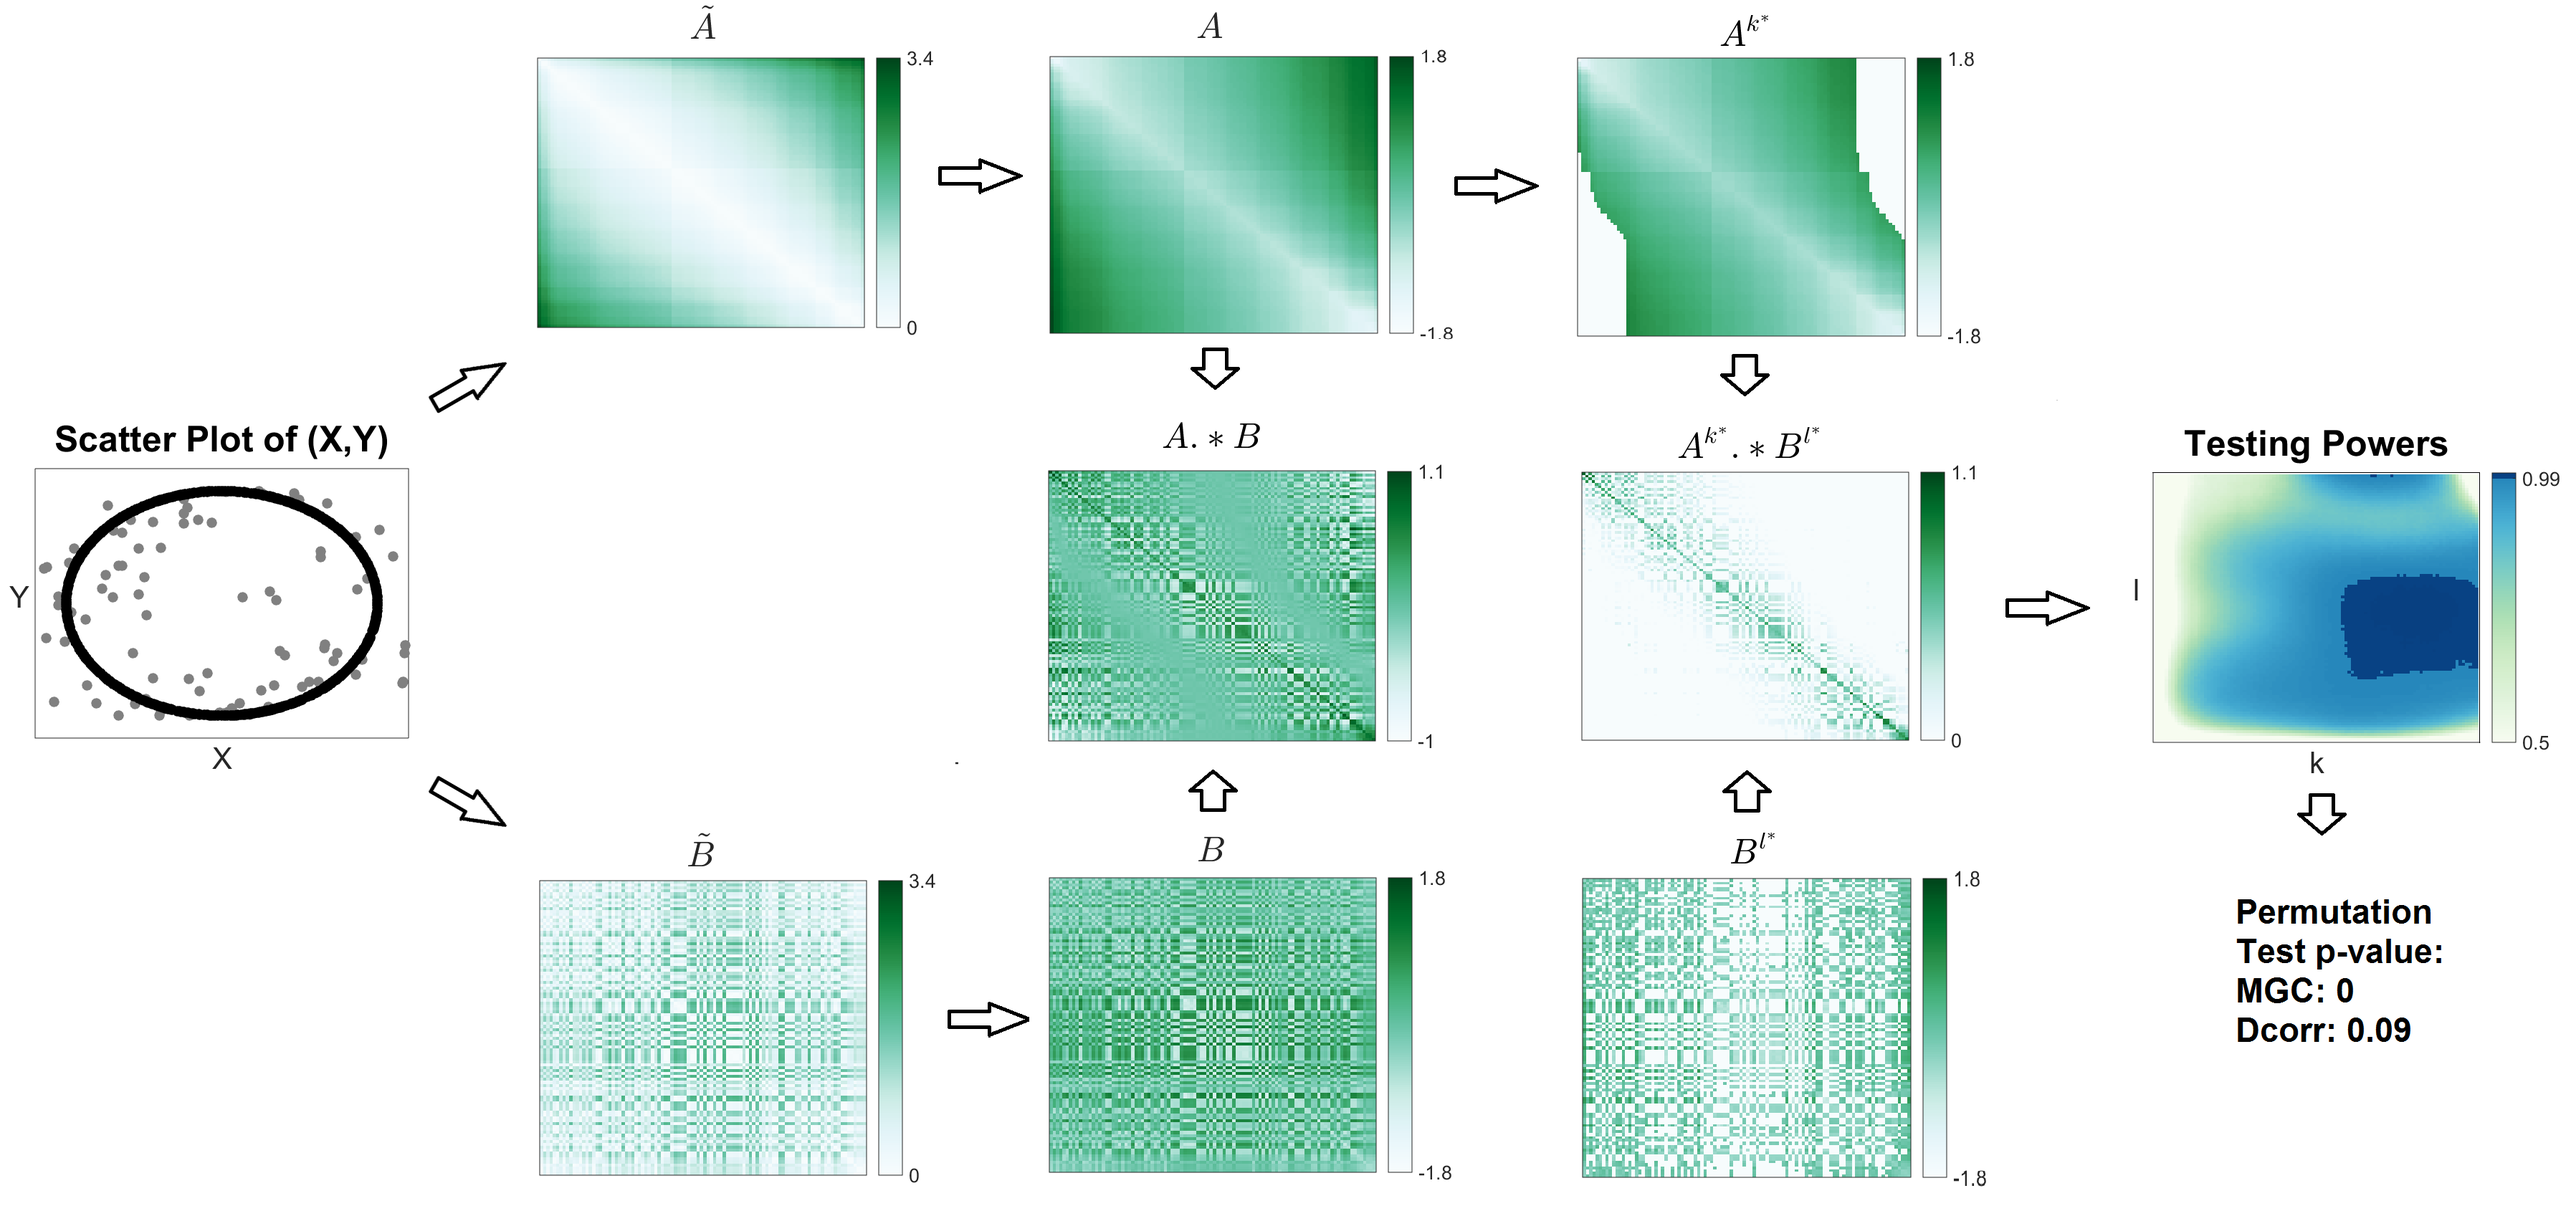
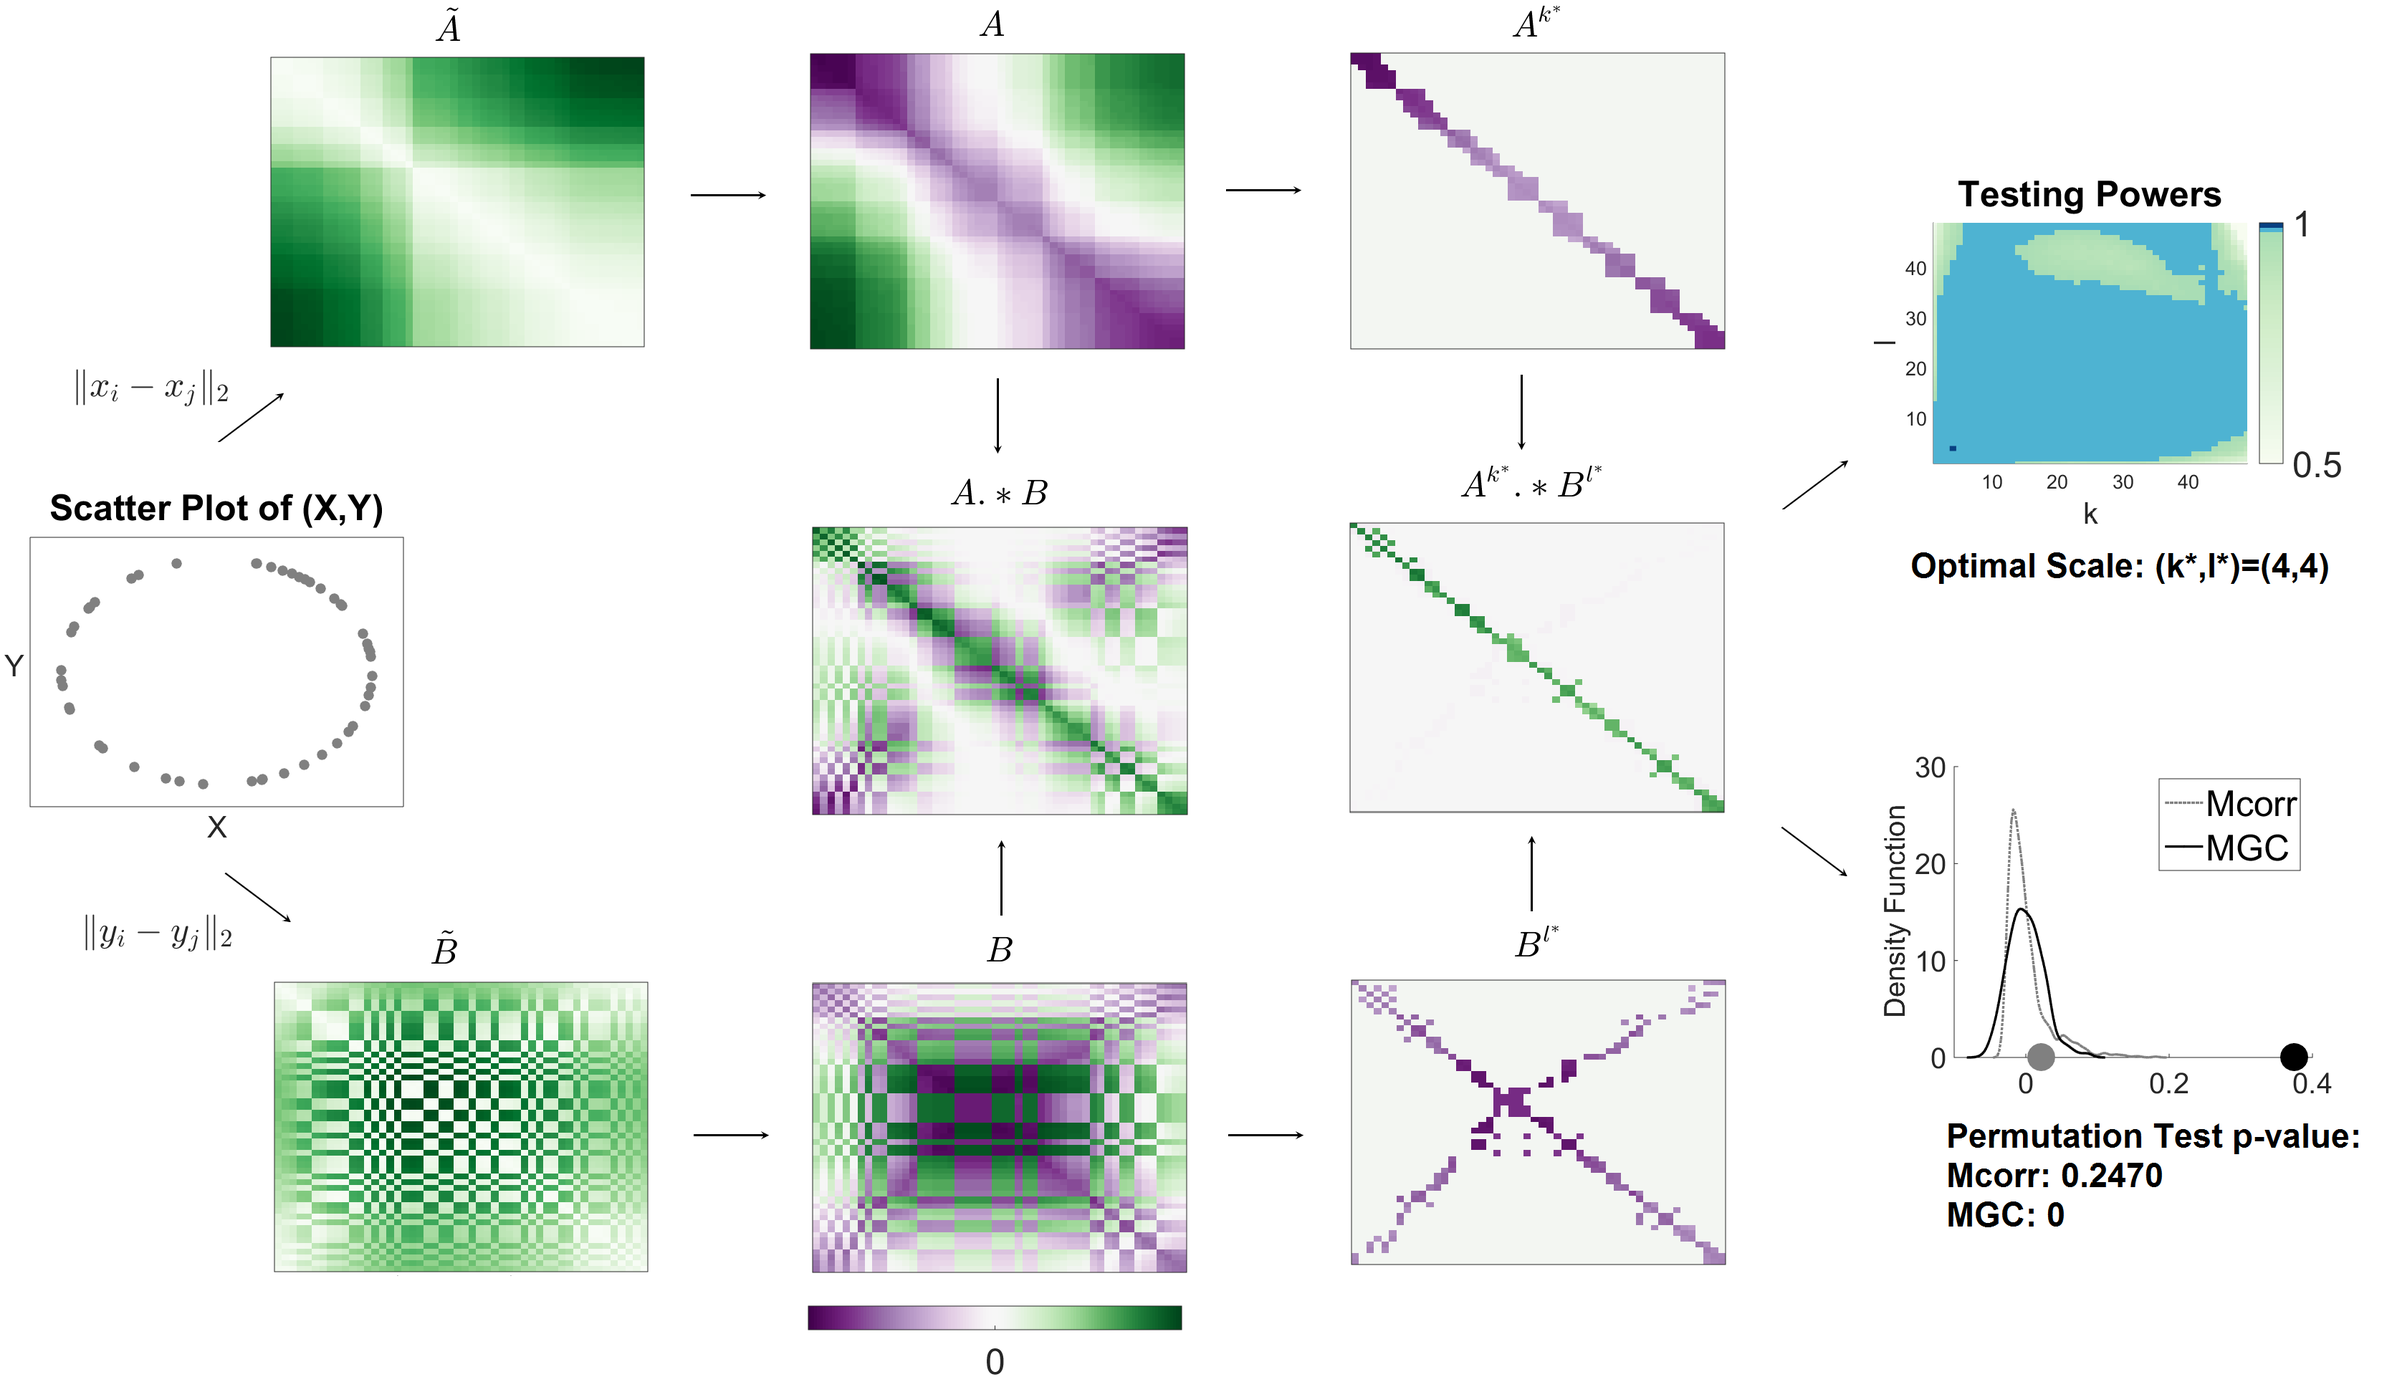
figure 1 update in tex

diff --git a/Code/Plots/plot_auxiliary.m b/Code/Plots/plot_auxiliary.m
@@ -19,8 +19,9 @@ dim=1;
 noise=0;
 cc=1;
 samebar=1;
-colorb=1;
+colorb=0;
 rep=1000;
+repp=1;
 
 cmap=zeros(3,3);
 gr = [0.5,0.5,0.5];
@@ -37,14 +38,14 @@ set(groot,'defaultAxesColorOrder',map1);
 % Generate data
 [x, y]=CorrSampleGenerator(type,n,dim,1, noise);
 if noise~=0
-[x1, y1]=CorrSampleGenerator(type,10*n,dim,1, 0); % Plot 10*n points without noise to highlight the underlying dependency
+    [x1, y1]=CorrSampleGenerator(type,10*n,dim,1, 0); % Plot 10*n points without noise to highlight the underlying dependency
 end
 % A1: scatter plot
 figure
 if noise==0
-plot(x,y,'.','MarkerSize',30);
+    plot(x,y,'.','MarkerSize',30);
 else
-plot(x,y,'.',x1,y1,'k.','MarkerSize',30);
+    plot(x,y,'.',x1,y1,'k.','MarkerSize',30);
 end
 xlabel('X','FontSize',25)
 ylabel('Y','FontSize',25,'Rotation',0,'position',[-1.3,-0.1]);
@@ -65,28 +66,28 @@ D=squareform(pdist(y));
 tA=zeros(n,n,rep);
 tN=zeros(n,n,rep);
 pa=zeros(n,n);
-for rr=1:10
-for r=1:rep;
-    [x, y]=CorrSampleGenerator(type,n,dim,1, noise);
-    CA=squareform(pdist(x));
-    DA=squareform(pdist(y));
-    tA(:,:,r)=LocalCorr(CA,DA,2);
-    [x, y]=CorrSampleGenerator(type,n,dim,0, noise);
-    CA=squareform(pdist(x));
-    DA=squareform(pdist(y));
-    tN(:,:,r)=LocalCorr(CA,DA,2);
-end
-
-power1=zeros(n,n);
-alpha=0.05;
-for i=1:n;
-    for j=1:n;
-        dCorT=sort(tN(i,j,:),'descend');
-        cut1=dCorT(ceil(rep*alpha));
-        power1(i,j)=mean(tA(i,j,:)>cut1);
+for rr=1:repp
+    for r=1:rep;
+        [x, y]=CorrSampleGenerator(type,n,dim,1, noise);
+        CA=squareform(pdist(x));
+        DA=squareform(pdist(y));
+        tA(:,:,r)=LocalCorr(CA,DA,2);
+        [x, y]=CorrSampleGenerator(type,n,dim,0, noise);
+        CA=squareform(pdist(x));
+        DA=squareform(pdist(y));
+        tN(:,:,r)=LocalCorr(CA,DA,2);
     end
-end
-pa=pa+power1/10;
+    
+    power1=zeros(n,n);
+    alpha=0.05;
+    for i=1:n;
+        for j=1:n;
+            dCorT=sort(tN(i,j,:),'descend');
+            cut1=dCorT(ceil(rep*alpha));
+            power1(i,j)=mean(tA(i,j,:)>cut1);
+        end
+    end
+    pa=pa+power1/repp;
 end
 power1=pa;
 % figure
@@ -131,7 +132,7 @@ plot(xi,f,'.:',xi1,f1,'k.-','LineWidth',2);
 set(gca,'FontSize',24);
 h=legend('Mcorr','MGC','Location','NorthEast');
 set(h,'FontSize',30);
-plot(tA(end),0.01,'.',tA(k,l),0.01,'k.','MarkerSize',30);
+plot(tA(end),0.01,'.',tA(k,l),0.01,'k.','MarkerSize',80);
 xlim([minp,maxp]);
 ylabel('Density Function','FontSize',24);
 %ylim([-1 15]);
@@ -173,11 +174,11 @@ if colorb~=0
     h=colorbar('Ticks',[-1000,0,maxC]);
     set(h,'FontSize',16);
 end
-title('Pairwise Distances','FontSize',30)
+%xlabel('$$\tilde{A}_{ij}=|x_{i}-x_{j}|_{2}$$','FontSize',30,'interpreter','latex','position',[0,-1])
 set(gca,'XTick',[]); % Remove x axis ticks
 set(gca,'YTick',[]); % Remove y axis ticks
-%xlabel('\tilde{A}_{ij}=\|x_{i}-x_{j}\|_{2}','FontSize',25);
-ylabel('$$\tilde{A}$$','FontSize',30,'Rotation',0,'position',[-5,50],'interpreter','latex');
+xlabel('$\|x_{i}-x_{j}\|_{2}$','FontSize',30,'interpreter','latex')
+title('$\tilde{A}$','FontSize',30,'Rotation',0,'position',[-5,50],'interpreter','latex');
 
 %subplot(s,t,6)
 figure
@@ -196,7 +197,8 @@ caxis([0,maxC]);
 set(gca,'XTick',[]); % Remove x axis ticks
 set(gca,'YTick',[]); % Remove y axis ticks
 %xlabel('\tilde{B}_{ij}=\|y_{i}-y_{j}\|_{2}','FontSize',25);
-ylabel('$$\tilde{B}$$','FontSize',30,'Rotation',0,'position',[-5,50],'interpreter','latex');
+xlabel('$\|y_{i}-y_{j}\|_{2}$','FontSize',30,'interpreter','latex')
+title('$\tilde{B}$','FontSize',30,'Rotation',0,'position',[-5,50],'interpreter','latex');
 
 % A3: heatmaps of the doubly centered distance matrices
 for option=1:1
@@ -237,6 +239,7 @@ for option=1:1
     else
         minC=floor(min(min([A]))*10)/10;maxC=ceil(max(max([A]))*10)/10;
     end
+    minC=min(minC,-maxC);maxC=max(maxC,-minC);
     figure
     imagesc(A');
     colormap(map2)
@@ -249,7 +252,7 @@ for option=1:1
     set(gca,'XTick',[]); % Remove x axis ticks
     set(gca,'YTick',[]); % Remove y axis ticks
     %xlabel('A=H\tilde{A}H','FontSize',25);
-    ylabel('$$A$$','FontSize',30,'Rotation',0,'position',[-5,50],'interpreter','latex');
+    title('$$A$$','FontSize',30,'interpreter','latex');
     
     figure
     if samebar==1
@@ -257,6 +260,7 @@ for option=1:1
     else
         minD=floor(min(min([B]))*10)/10;maxD=ceil(max(max([B]))*10)/10;
     end
+    minD=min(minD,-maxD);maxD=max(maxD,-minD);
     imagesc(B');
     set(gca,'FontSize',16)
     colormap(map2)
@@ -265,11 +269,13 @@ for option=1:1
         h=colorbar('Ticks',[-1000,minD,maxD]);
         set(h,'FontSize',16);
     end
+    h=colorbar('Ticks',[0],'location','southoutside');
+    set(h,'FontSize',30);
     %title('Doubly-Centered Distance Heatmap of Y','FontSize',16)
     set(gca,'XTick',[]); % Remove x axis ticks
     set(gca,'YTick',[]); % Remove y axis ticks
     %xlabel('B=H\tilde{B}H','FontSize',25);
-    ylabel('$$B$$','FontSize',30,'Rotation',0,'position',[-5,50],'interpreter','latex');
+    title('$$B$$','FontSize',30,'interpreter','latex');
     
     % Local distance matrices
     %if n~=100 || noise~=1
@@ -319,15 +325,16 @@ for option=1:1
     % A4: heatmaps of the distance covariance entries
     figure
     MH=ceil(max(max(mcorrH(2:end,2:end)))*10)/10;
-    mMH=floor(min(min(mcorrH(2:end,2:end)))*10)/10;
+    mH=floor(min(min(mcorrH(2:end,2:end)))*10)/10;
+    mH=min(mH,-MH);MH=max(MH,-mH);
     imagesc(mcorrH');
     set(gca,'FontSize',16)
     colormap(map2)
     if colorb~=0
-        h=colorbar('Ticks',[-1000,mMH,MH]);
+        h=colorbar('Ticks',[-1000,mH,MH]);
         set(h,'FontSize',16);
     end
-    caxis([mMH,MH]);
+    caxis([mH,MH]);
     %ylabel('$$A^{k^{*}}.*B^{l^{*}}$$','FontSize',25,'Rotation',0,'position',[-5,50],'interpreter','latex');
     set(gca,'XTick',[]); % Remove x axis ticks
     set(gca,'YTick',[]); % Remove y axis ticks
@@ -347,12 +354,12 @@ for option=1:1
     set(gca,'FontSize',16)
     colormap(map2)
     if colorb~=0
-        h=colorbar('Ticks',[-1000,mMH,MH]);
+        h=colorbar('Ticks',[-1000,mH,MH]);
         set(h,'FontSize',16);
     end
-    caxis([mMH,MH]);
-     if colorb~=0
-        h=colorbar('Ticks',[-1000,mMH,MH]);
+    caxis([mH,MH]);
+    if colorb~=0
+        h=colorbar('Ticks',[-1000,mH,MH]);
         set(h,'FontSize',16);
     end
     %ylabel('$$A^{k^{*}}.*B^{l^{*}}$$','FontSize',25,'Rotation',0,'position',[-5,50],'interpreter','latex');
@@ -385,8 +392,8 @@ for option=1:1
     ylabel('l','FontSize',25)%,'Rotation',0,'position',[-5,50]);
     xlim([1 n-1]);
     ylim([1 n-1]);
-    h=colorbar('Ticks',[-1000,0.5,0.98]);
-    set(h,'FontSize',16);
+    h=colorbar('Ticks',[-1000,0.5,1]);
+    set(h,'FontSize',30);
     
     imagesc(k,l,1);
     

diff --git a/Draft/LDC.tex b/Draft/LDC.tex
@@ -283,7 +283,12 @@ Among all $n^2$ local statistics, $\{\G_{kl}\}$, \Mgc~selects the best local sta
 % \includegraphics[width=1.0\textwidth]{Figures/FigB}
 % \includegraphics[width=1.0\textwidth]{Figures/FigC}
 \caption{
-Flowchart for local correlation computation: Column 1: $(X,Y)$ have a quadratic relationship with white noise. Column 2: The heat maps of $\tilde{A}$ and $\tilde{B}$, which are the pairwise Euclidean distance matrices of $X$ and $Y$. Column 3: The heat maps of $A=\{a_{ij}\}$ and $B=\{b_{ij}\}$, which are the normalized (i.e. doubly centered) distance matrices of $\tilde{A}$ and $\tilde{B}$. Column 4: The heat maps of local $A$ and $B$, i.e., $A^{k^{*}}=\{a^{k^{*}}_{ij}\}$ and $B^{l^{*}}=\{b^{l^{*}}_{ij}\}$, where $(k^{*},l^{*})$ is the optimal scale for the quadratic relationship. Column 5: The heat map of the entry-wise product of local $A$ and $B$, i.e., $\{(a_{ij}^{k^{*}}-\bar{a}^{k^{*}}) (b_{ij}^{l^{*}}-\bar{b}^{l^{*}})\}$ for $i,j=1,\ldots,n$. The matrix sum $\sum_{i,j}(a_{ij}^{k^{*}}-\bar{a}^{k^{*}}) (b_{ij}^{l^{*}}-\bar{b}^{l^{*}})$ equals the optimal local covariance, i.e., the un-normalized \Mgc~statistic $\G^{*}$. }
+Flowchart for \Mgc~computation: 
+Column 1: $(X,Y)$ have a circle relationship. 
+Column 2: The heat maps of $\tilde{A}$ and $\tilde{B}$, which are the pairwise Euclidean distance matrices of $X$ and $Y$. All distance entries are non-negative.
+Column 3: The top and bottom panels are the heat maps of $A=\{a_{ij}\}$ and $B=\{b_{ij}\}$, which are the properly centered distance matrices of $\tilde{A}$ and $\tilde{B}$. The center panel is the heatmap of the entry-wise products of $A$ and $B$, summing over which yields the un-normalized \Mcorr~statistic. As the entries of $A$ and $B$ can be either positive or negative, the entry-wise products can be either positive or negative for nonlinear dependencies, which causes $\Mcorr(X,Y)$ to be close to $0$ and the p-value to be in-significant, as shown in column 5.
+Column 4: The top and bottom panels are the heat maps of local $A$ and $B$, i.e., $A^{k^{*}}=\{a^{k^{*}}_{ij}\}$ and $B^{l^{*}}=\{b^{l^{*}}_{ij}\}$, where $(k^{*},l^{*})=(4,4)$ is the optimal scale for the circle relationship. The center panel is the heat map of the entry-wise products of local $A$ and $B$, summing over which yields the un-normalized \Mgc~statistic $\G^{*}$. \Mgc~successfully identifies the optimal local structure for correlation testing, and the resulting entry-wise products are dominantly non-negative, which causes $\Mgc(X,Y)$ to be much larger than $0$ and the p-value to be significant, as shown in column 5.
+Column 5: The top panel is the testing powers of all local correlations, where the optimal scale is shown as a dark blue point with many adjacent scales being very close to optimal (light blue points). The bottom panel shows $\Mgc(X,Y)$ and $\Mcorr(X,Y)$ as dark and gray dots on the x-axis, as well as the distribution of the permuted test statistics.}
 \label{f:schematic}
 \end{figure}
 % 
